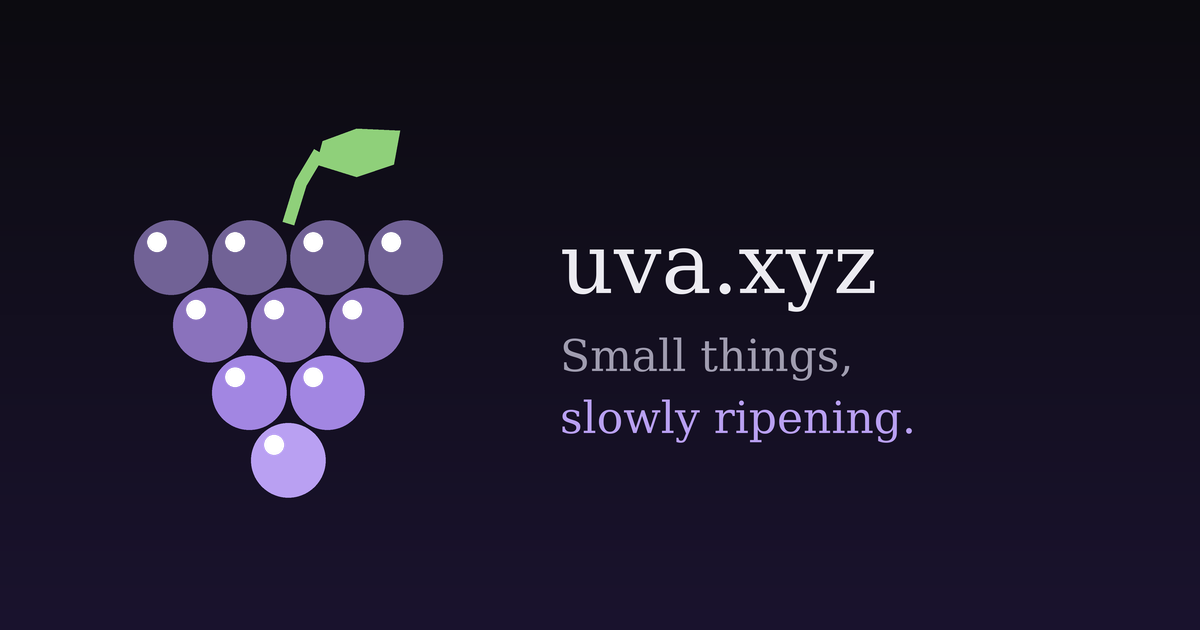
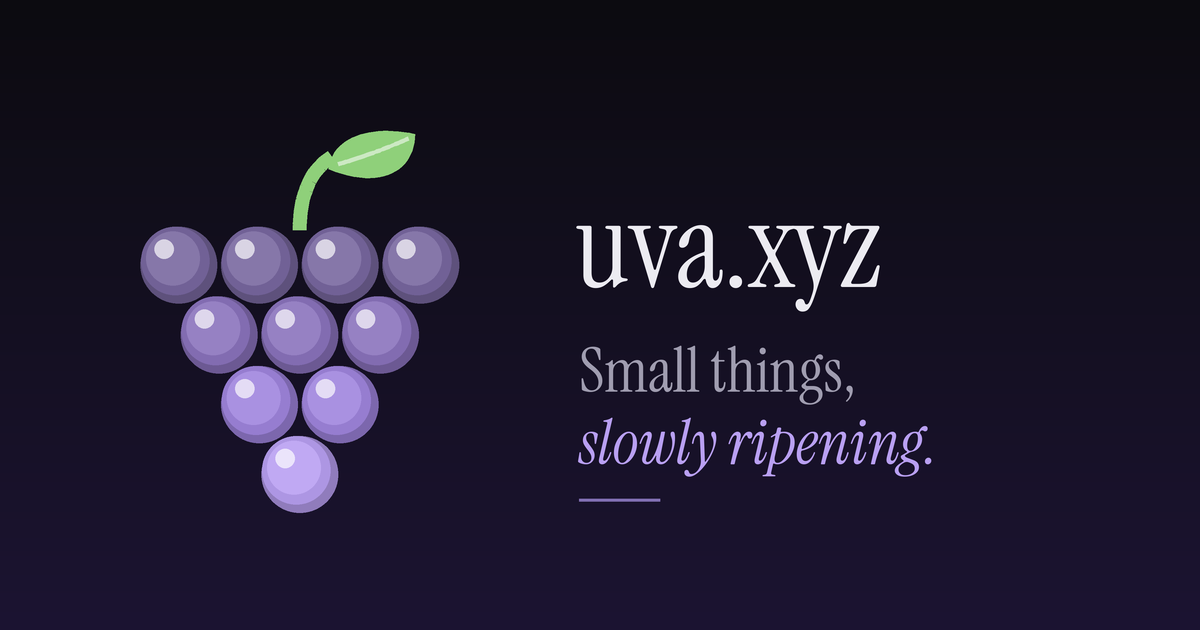
design: display serif, motion, page transitions, mark shading

diff --git a/src/post.html b/src/post.html
@@ -1,9 +1,11 @@
 <!DOCTYPE html>
 <html lang="{{LANG}}"><head><meta charset="utf-8"><meta name="viewport" content="width=device-width,initial-scale=1">
 {{HEAD}}
+{{PRELOAD}}
 <script>try{var s=localStorage,t=s.getItem('uva-theme');document.documentElement.dataset.theme=t||(matchMedia('(prefers-color-scheme:dark)').matches?'dark':'light')}catch(e){}</script>
 <style>
-:root{--bg:#fbfaf7;--fg:#18161d;--dim:#6f6a78;--line:rgba(24,22,29,.11);--acc:#5b2d91;color-scheme:light;--sans:system-ui,-apple-system,"Segoe UI","PingFang SC","Microsoft YaHei",sans-serif;--mono:ui-monospace,"SF Mono",Menlo,Consolas,monospace}
+{{FONTCSS}}
+:root{--bg:#fbfaf7;--display:"Instrument Serif","Iowan Old Style","Palatino Linotype","Songti SC","Source Han Serif SC","Noto Serif CJK SC",Georgia,serif;--fg:#18161d;--dim:#6f6a78;--line:rgba(24,22,29,.11);--acc:#5b2d91;color-scheme:light;--sans:system-ui,-apple-system,"Segoe UI","PingFang SC","Microsoft YaHei",sans-serif;--mono:ui-monospace,"SF Mono",Menlo,Consolas,monospace}
 [data-theme=dark]{--bg:#0c0b10;--fg:#ecebf1;--dim:#8f8a9b;--line:rgba(255,255,255,.1);--acc:#b9a0f2;color-scheme:dark}
 *{box-sizing:border-box;margin:0}
 body{background:var(--bg);color:var(--fg);font:17px/1.85 "Iowan Old Style","Palatino Linotype","Songti SC","Noto Serif CJK SC",Georgia,serif;padding:0 24px 70px;-webkit-font-smoothing:antialiased}
@@ -11,7 +13,18 @@ a{color:inherit}.tools{position:fixed;top:14px;right:16px;display:flex;gap:2px}
 .tools a,.tools button{display:grid;place-items:center;min-width:36px;height:36px;border:0;border-radius:99px;background:none;color:var(--dim);font:600 12px var(--mono);cursor:pointer;text-decoration:none}.tools a:hover,.tools button:hover{background:var(--line);color:var(--fg)}
 main{max-width:660px;margin:0 auto}
 .crumb{font:12px var(--mono);letter-spacing:.04em;color:var(--dim);margin:30px 0 52px}.crumb a{text-decoration:none}.crumb a:hover{color:var(--acc)}.crumb span{margin:0 6px;opacity:.5}
-h1{font-weight:400;font-size:clamp(32px,6vw,50px);line-height:1.12;letter-spacing:-.02em}
+h1{font:400 clamp(34px,6vw,52px)/1.1 var(--display);letter-spacing:-.02em;text-wrap:balance;font-synthesis:none}
+html[lang=en] h1{font-size:clamp(42px,8vw,68px);line-height:1.04;letter-spacing:-.025em}
+.prose{text-wrap:pretty}.prose h2,.prose h3,.prose h4{text-wrap:balance;position:relative}
+.anchor{position:absolute;left:-1.1em;top:0;padding-right:.4em;text-decoration:none;color:var(--dim);opacity:0;transition:opacity .2s}.anchor::before{content:"#"}.prose :is(h2,h3,h4):hover .anchor,.anchor:focus-visible{opacity:1}
+.progress{display:none}@media (prefers-reduced-motion:no-preference){@supports (animation-timeline:scroll()){.progress{display:block;position:fixed;top:0;left:0;right:0;height:2px;background:var(--acc);transform-origin:0 50%;animation:grow linear both;animation-timeline:scroll(root);z-index:9}@keyframes grow{from{transform:scaleX(0)}to{transform:scaleX(1)}}}
+@keyframes rise{from{opacity:0;transform:translateY(14px)}}header,.prose{animation:rise .8s cubic-bezier(.2,.7,.2,1) both}.prose{animation-delay:.12s}}
+@media (prefers-reduced-motion:no-preference){@view-transition{navigation:auto}
+::view-transition-group(*){animation-duration:.42s;animation-timing-function:cubic-bezier(.2,.7,.2,1)}
+::view-transition-old(root),::view-transition-new(root){animation-duration:.3s}}
+:focus-visible{outline:2px solid var(--acc);outline-offset:3px;border-radius:3px}
+::selection{background:color-mix(in srgb,var(--acc) 30%,transparent)}
+
 .meta{font:12px var(--mono);color:var(--dim);margin-top:14px}.meta a{color:var(--acc)}.tags{display:flex;gap:10px;flex-wrap:wrap;margin-top:10px;font:12px var(--mono);color:var(--acc)}
 .prose{margin-top:38px}.prose>*+*{margin-top:1.15em}.prose h2,.prose h3,.prose h4{font-weight:600;margin-top:2em;line-height:1.3}.prose a{color:var(--acc)}.prose img{max-width:100%;height:auto;border-radius:10px}
 blockquote{border-left:3px solid var(--acc);padding-left:16px;color:var(--dim)}code{font:14px var(--mono);background:var(--line);padding:1px 6px;border-radius:5px}
@@ -22,11 +35,12 @@ table{border-collapse:collapse;width:100%;font-size:15px}th,td{border-bottom:1px
 .related p{font:14px/1.55 var(--sans);color:var(--dim)}
 footer{margin-top:70px;font:12px var(--mono);color:var(--dim);display:flex;gap:6px 20px;flex-wrap:wrap}footer a{text-decoration:none}footer a:hover{color:var(--acc)}
 </style></head><body>
+<div class="progress" aria-hidden="true"></div>
 <div class="tools"><a id="lang" href="{{ALTHREF}}" hreflang="{{ALTHL}}" lang="{{ALTHL}}" aria-label="{{ALTARIA}}">{{ALTLABEL}}</a><button id="theme" aria-label="{{THEMEARIA}}">☾</button></div>
 <main>
 {{CRUMB}}
 <article>
-<header><h1>{{H1}}</h1>{{META}}{{TAGS}}</header>
+<header><h1{{VT}}>{{H1}}</h1>{{META}}{{TAGS}}</header>
 <div class="prose">{{BODY}}</div>
 </article>
 {{RELATED}}

diff --git a/src/index.html b/src/index.html
@@ -4,10 +4,13 @@
 <meta charset="utf-8">
 <meta name="viewport" content="width=device-width,initial-scale=1,viewport-fit=cover">
 {{HEAD}}
+{{PRELOAD}}
 <script>try{var s=localStorage,p=s.getItem('uva-lang'),t=s.getItem('uva-theme');document.documentElement.dataset.theme=t||(matchMedia('(prefers-color-scheme:dark)').matches?'dark':'light');var h=location.hostname,H='{{HOST}}';if((p==='zh'||p==='en')&&p!=='{{CODE}}'&&(!H||h===H||h==='www.'+H||h==='localhost'||h==='127.0.0.1'||/\.(pages|workers)\.dev$/.test(h)))location.replace('{{ALTHOME}}'+location.hash)}catch(e){}</script>
 <style>
+{{FONTCSS}}
 :root{--bg:#fbfaf7;--fg:#18161d;--dim:#6f6a78;--line:rgba(24,22,29,.11);--acc:#5b2d91;--g:#5f9b4a;--card:#fff;color-scheme:light;
 --serif:"Iowan Old Style","Palatino Linotype","Songti SC","Source Han Serif SC","Noto Serif CJK SC",Georgia,serif;
+--display:"Instrument Serif","Iowan Old Style","Palatino Linotype","Songti SC","Source Han Serif SC","Noto Serif CJK SC",Georgia,serif;
 --sans:system-ui,-apple-system,"Segoe UI","PingFang SC","Microsoft YaHei",sans-serif;--mono:ui-monospace,"SF Mono",Menlo,Consolas,monospace}
 [data-theme=dark]{--bg:#0c0b10;--fg:#ecebf1;--dim:#8f8a9b;--line:rgba(255,255,255,.1);--acc:#b9a0f2;--g:#8fd07a;--card:#16141c;color-scheme:dark}
 html.aged{--bg:#241016;--fg:#f6e3dc;--dim:#b58a8a;--line:rgba(246,227,220,.16);--acc:#ff7a8e;--card:#321820}
@@ -21,8 +24,10 @@ a{color:inherit;text-decoration:none}
 #mark{display:block;width:84px;height:84px;overflow:visible;cursor:pointer;touch-action:manipulation}
 img#mark{border-radius:50%;object-fit:cover}
 .hi{font:12px var(--mono);letter-spacing:.06em;color:var(--dim);margin:34px 0 12px}
-h1{font:400 clamp(34px,6.4vw,54px)/1.08 var(--serif);letter-spacing:-.025em}
+h1{font:400 clamp(36px,6.6vw,56px)/1.1 var(--display);letter-spacing:-.02em;text-wrap:balance;font-synthesis:none}
+html[lang=en] h1{font-size:clamp(48px,9.4vw,84px);line-height:1;letter-spacing:-.028em}
 h1 em{font-style:italic;color:var(--acc)}
+.bio,.row .d{text-wrap:pretty}h2{text-wrap:balance}
 .bio{margin-top:28px;color:var(--dim);font-size:17px;line-height:1.85}.bio p+p{margin-top:1em}.bio strong{color:var(--fg);font-weight:600}
 .bio a{color:var(--fg);border-bottom:1px solid var(--line);white-space:nowrap;transition:.2s}.bio a:hover{color:var(--acc);border-color:var(--acc)}
 .bio a img{width:15px;height:15px;box-sizing:content-box;padding:1.5px;background:#fff;border-radius:5px;vertical-align:-4px;margin-right:6px}
@@ -55,7 +60,20 @@ footer a:hover{color:var(--acc)}footer .r{opacity:.75}
 .tg{margin-top:8px;display:flex;gap:6px;flex-wrap:wrap}.tg span{font:11px var(--mono);color:var(--acc)}
 #say{position:fixed;left:50%;bottom:28px;z-index:70;transform:translate(-50%,8px);background:var(--fg);color:var(--bg);font-size:13px;padding:7px 15px;border-radius:99px;opacity:0;transition:.3s;pointer-events:none;white-space:nowrap}#say.on{opacity:1;transform:translate(-50%,0)}
 @media(max-width:560px){.row{grid-template-columns:20px 1fr}.row time{grid-column:2;grid-row:auto;margin-top:2px}.jr{grid-template-columns:1fr}.jr p{grid-column:1}}
-@media(prefers-reduced-motion:reduce){*{transition:none!important}}
+@media (prefers-reduced-motion:no-preference){
+@keyframes rise{from{opacity:0;transform:translateY(16px)}}
+@keyframes sway{0%,100%{transform:rotate(-1.8deg)}50%{transform:rotate(1.8deg)}}
+#mark{transform-origin:50% 14%;animation:rise .9s cubic-bezier(.2,.7,.2,1) both,sway 7s ease-in-out .9s infinite}
+.hi,h1,.bio,.links{animation:rise .9s cubic-bezier(.2,.7,.2,1) both}
+.hi{animation-delay:.12s}h1{animation-delay:.2s}.bio{animation-delay:.34s}.links{animation-delay:.46s}
+@supports (animation-timeline:view()){.sec,footer{animation:rise linear both;animation-timeline:view();animation-range:entry 0% entry 45%}}
+}
+@media (prefers-reduced-motion:no-preference){@view-transition{navigation:auto}
+::view-transition-group(*){animation-duration:.42s;animation-timing-function:cubic-bezier(.2,.7,.2,1)}
+::view-transition-old(root),::view-transition-new(root){animation-duration:.3s}}
+:focus-visible{outline:2px solid var(--acc);outline-offset:3px;border-radius:3px}
+::selection{background:color-mix(in srgb,var(--acc) 30%,transparent)}
+@media(prefers-reduced-motion:reduce){*{transition:none!important;animation:none!important}}
 </style>
 </head>
 <body>

diff --git a/README.md b/README.md
@@ -176,6 +176,10 @@ Poke the grape mark · type `wine` on the keyboard · switch tabs and watch the 
 
 A Cloudflare Functions + D1 guestbook backend exists in `extras/guestbook/`; it is not wired into the homepage at the moment.
 
+## Credits
+
+Display typeface for English pages: [Instrument Serif](https://github.com/Instrument/instrument-serif) (SIL Open Font License 1.1), self-hosted in `public/fonts/`.
+
 ## License
 
 [MIT](LICENSE)

diff --git a/README.zh-CN.md b/README.zh-CN.md
@@ -176,6 +176,10 @@ slug: custom-slug              # 自定义网址（默认用文件名）
 
 已做好 Cloudflare Functions + D1 的留言板后端，放在 `extras/guestbook/`，目前没有接入首页。
 
+## 致谢
+
+英文页面的标题字体：[Instrument Serif](https://github.com/Instrument/instrument-serif)（SIL Open Font License 1.1），自托管在 `public/fonts/`。
+
 ## 许可证
 
 [MIT](LICENSE)
